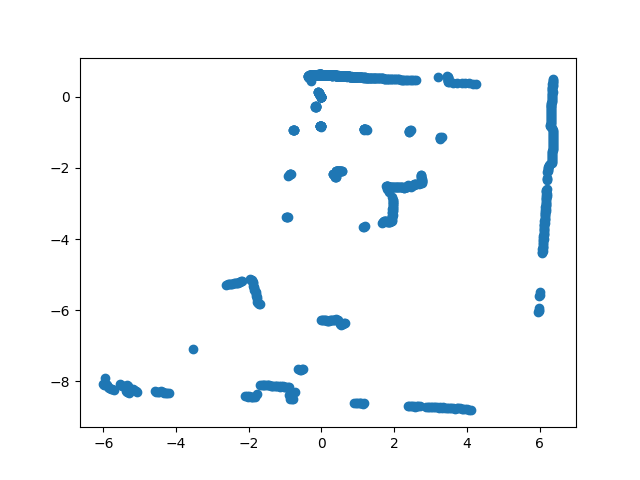
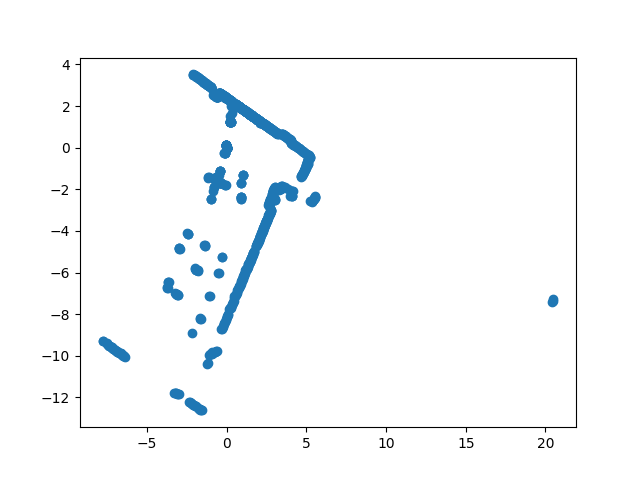
tmp

diff --git a/hw2/src/scanner_commander/src/main.py b/hw2/src/scanner_commander/src/main.py
@@ -14,7 +14,7 @@ class LaserScanContainer:
         self.angle_increment = None
         self.ranges = None
         self.cart = None
-
+        self.filter_mask = None
 
     def set_params(self, msg):
         self.angle_min = float(msg.angle_min)
@@ -27,13 +27,32 @@ class LaserScanContainer:
     def convert_to_cartesian(self):
         max_r = max(self.ranges)
         self.cart = np.zeros((len(self.ranges), 2))
-        for i, r in enumerate(self.ranges):
-            phi = i*self.angle_increment + self.angle_min
 
-            self.cart[i, 0] = r * cos(phi)
-            self.cart[i, 1] = r * sin(phi)
+        mask = self.filter_mask if self.filter_mask is not None else [True]*len(self.ranges)
 
-            
+        for i, (r, m) in enumerate(zip(self.ranges, mask)):
+            if m:
+                phi = i*self.angle_increment + self.angle_min
+
+                self.cart[i, 0] = r * cos(phi)
+                self.cart[i, 1] = r * sin(phi)
+
+    def create_filter_mask(self, treshold=0.1):
+        self.filter_mask = [True]
+        for cur_id in range(1, len(self.ranges)-1):
+            prev, cur, nxt = self.ranges[cur_id-1:cur_id+2]
+            mean = (nxt + prev)/2
+            prev_dif = cur - prev
+            nxt_dif  = nxt - cur
+            ratio = abs(prev_dif - nxt_dif)/mean
+
+            self.filter_mask.append(int(ratio < treshold))
+        self.filter_mask.append(True)
+
+    def save_img(self, name):
+        plt.scatter(self.cart[:, 0], self.cart[:, 1])
+        plt.savefig(f'{name}.png')
+        
 
 
 def callback(msg):
@@ -41,9 +60,14 @@ def callback(msg):
     if not scan.inited:
         scan.set_params(msg)
         scan.convert_to_cartesian()
-        plt.scatter(scan.cart[:, 0], scan.cart[:, 1])
-        plt.savefig('tmp.png')
+        scan.save_img('tmp')
+
+        scan.create_filter_mask()
+        scan.convert_to_cartesian()
+        scan.save_img('tmp_filtered')
         
+        
+
 
 rospy.init_node('log')
 scan = LaserScanContainer()
